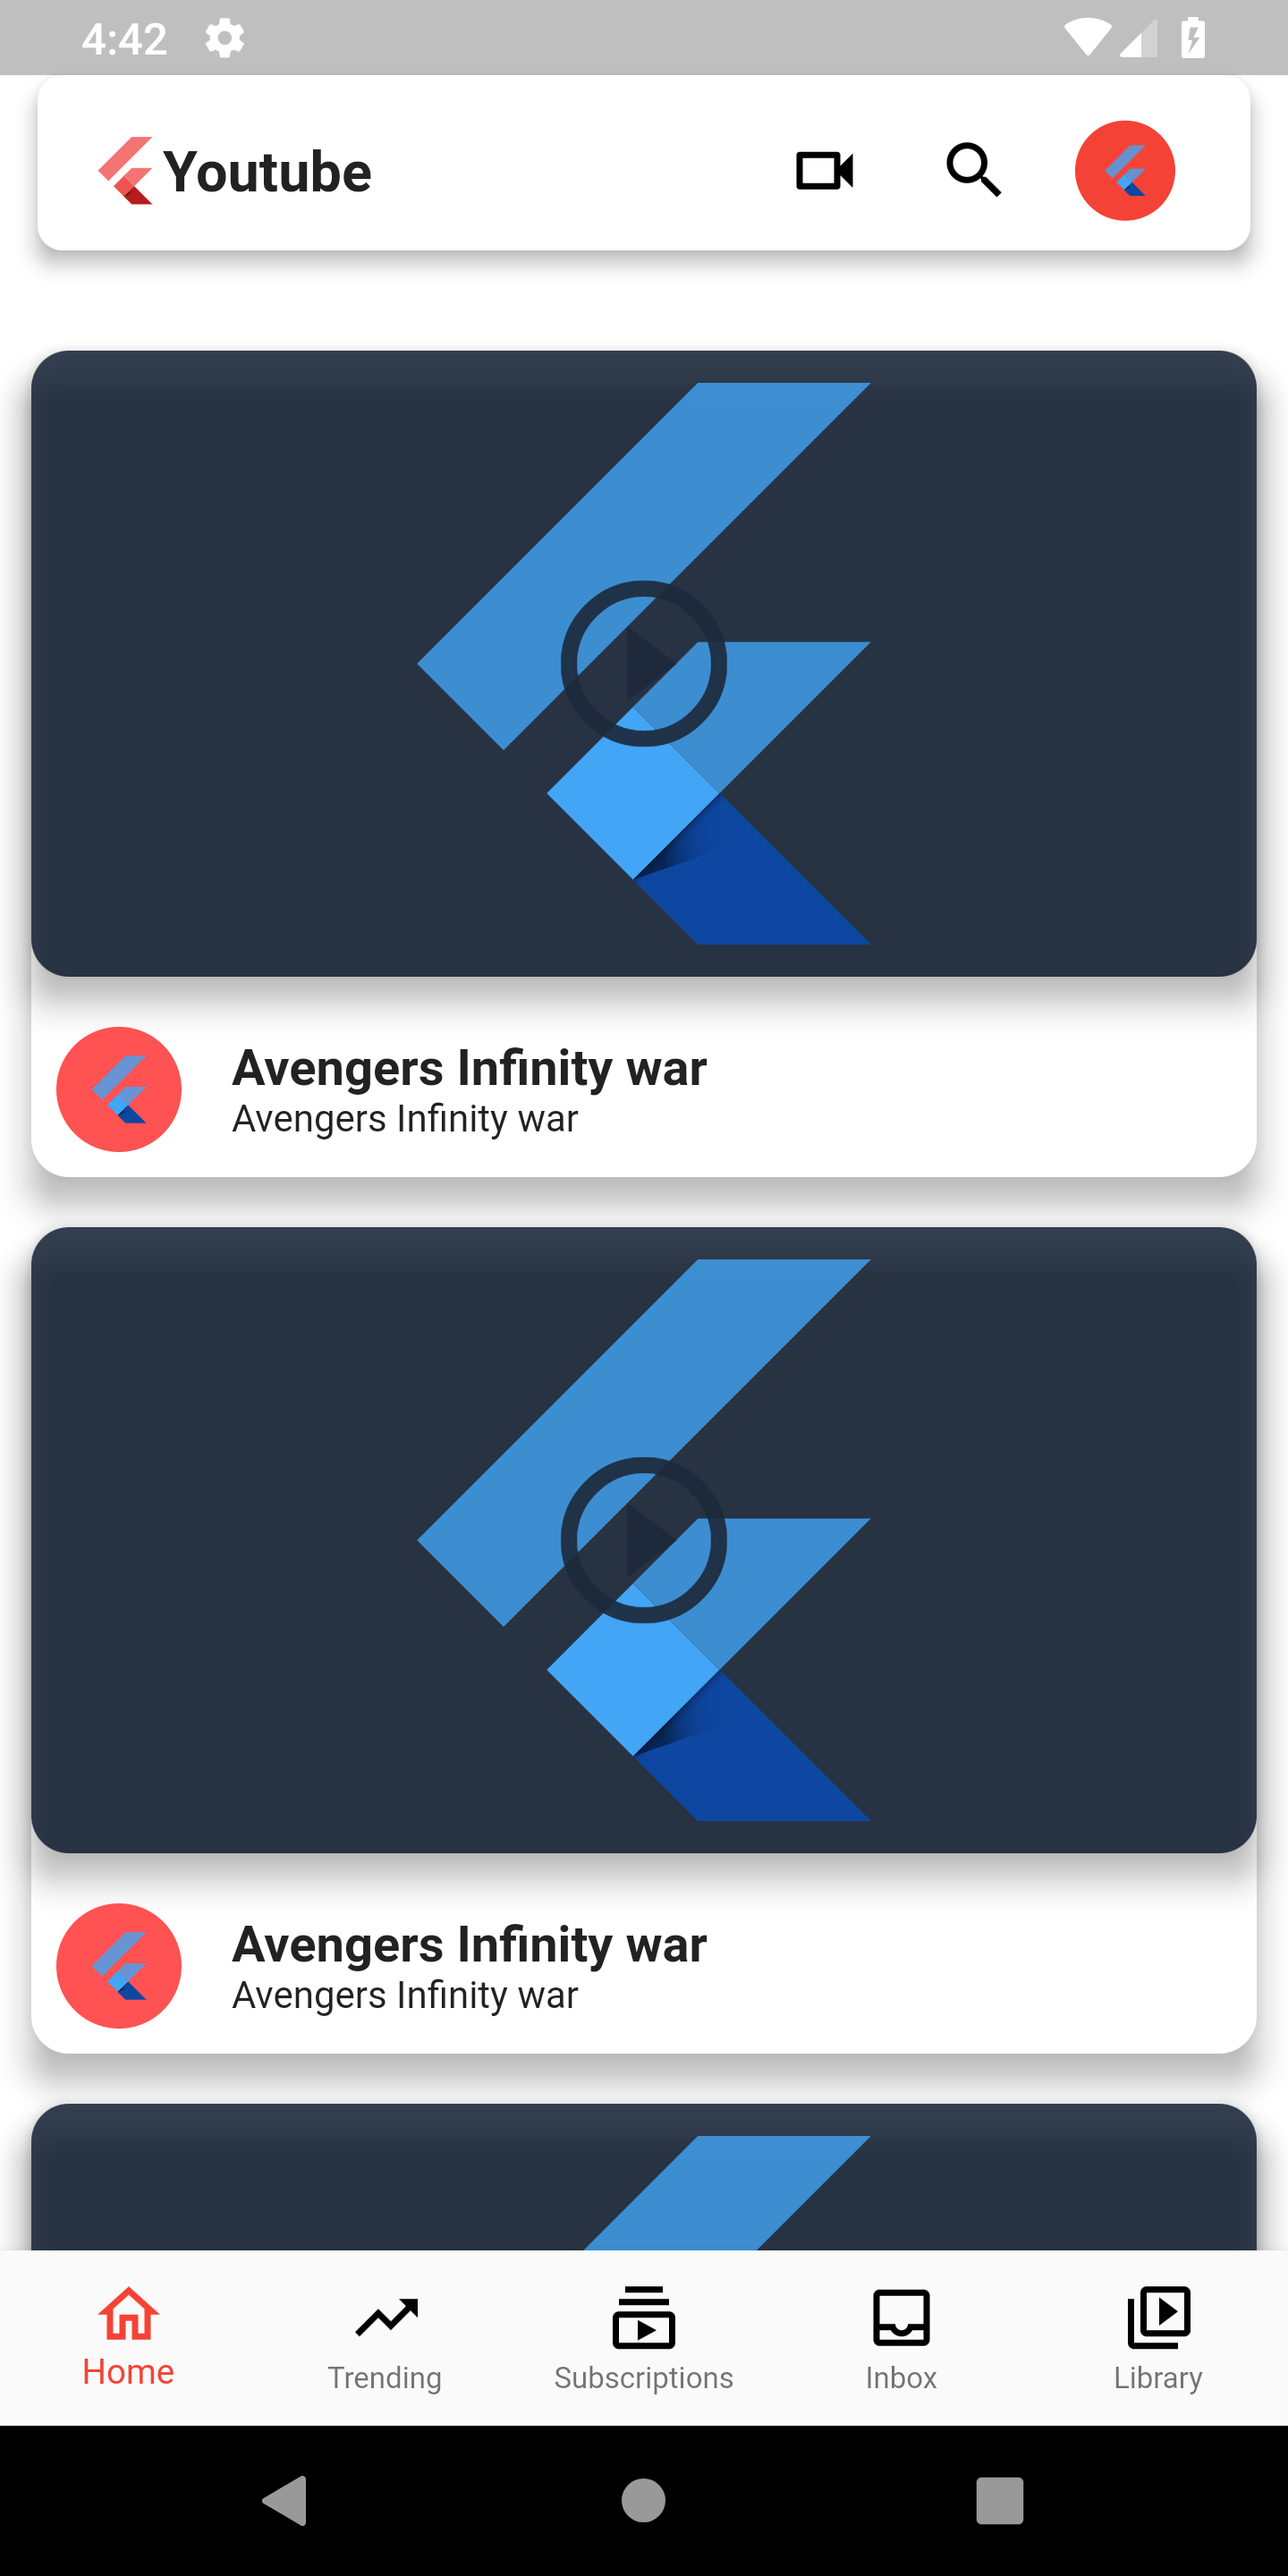
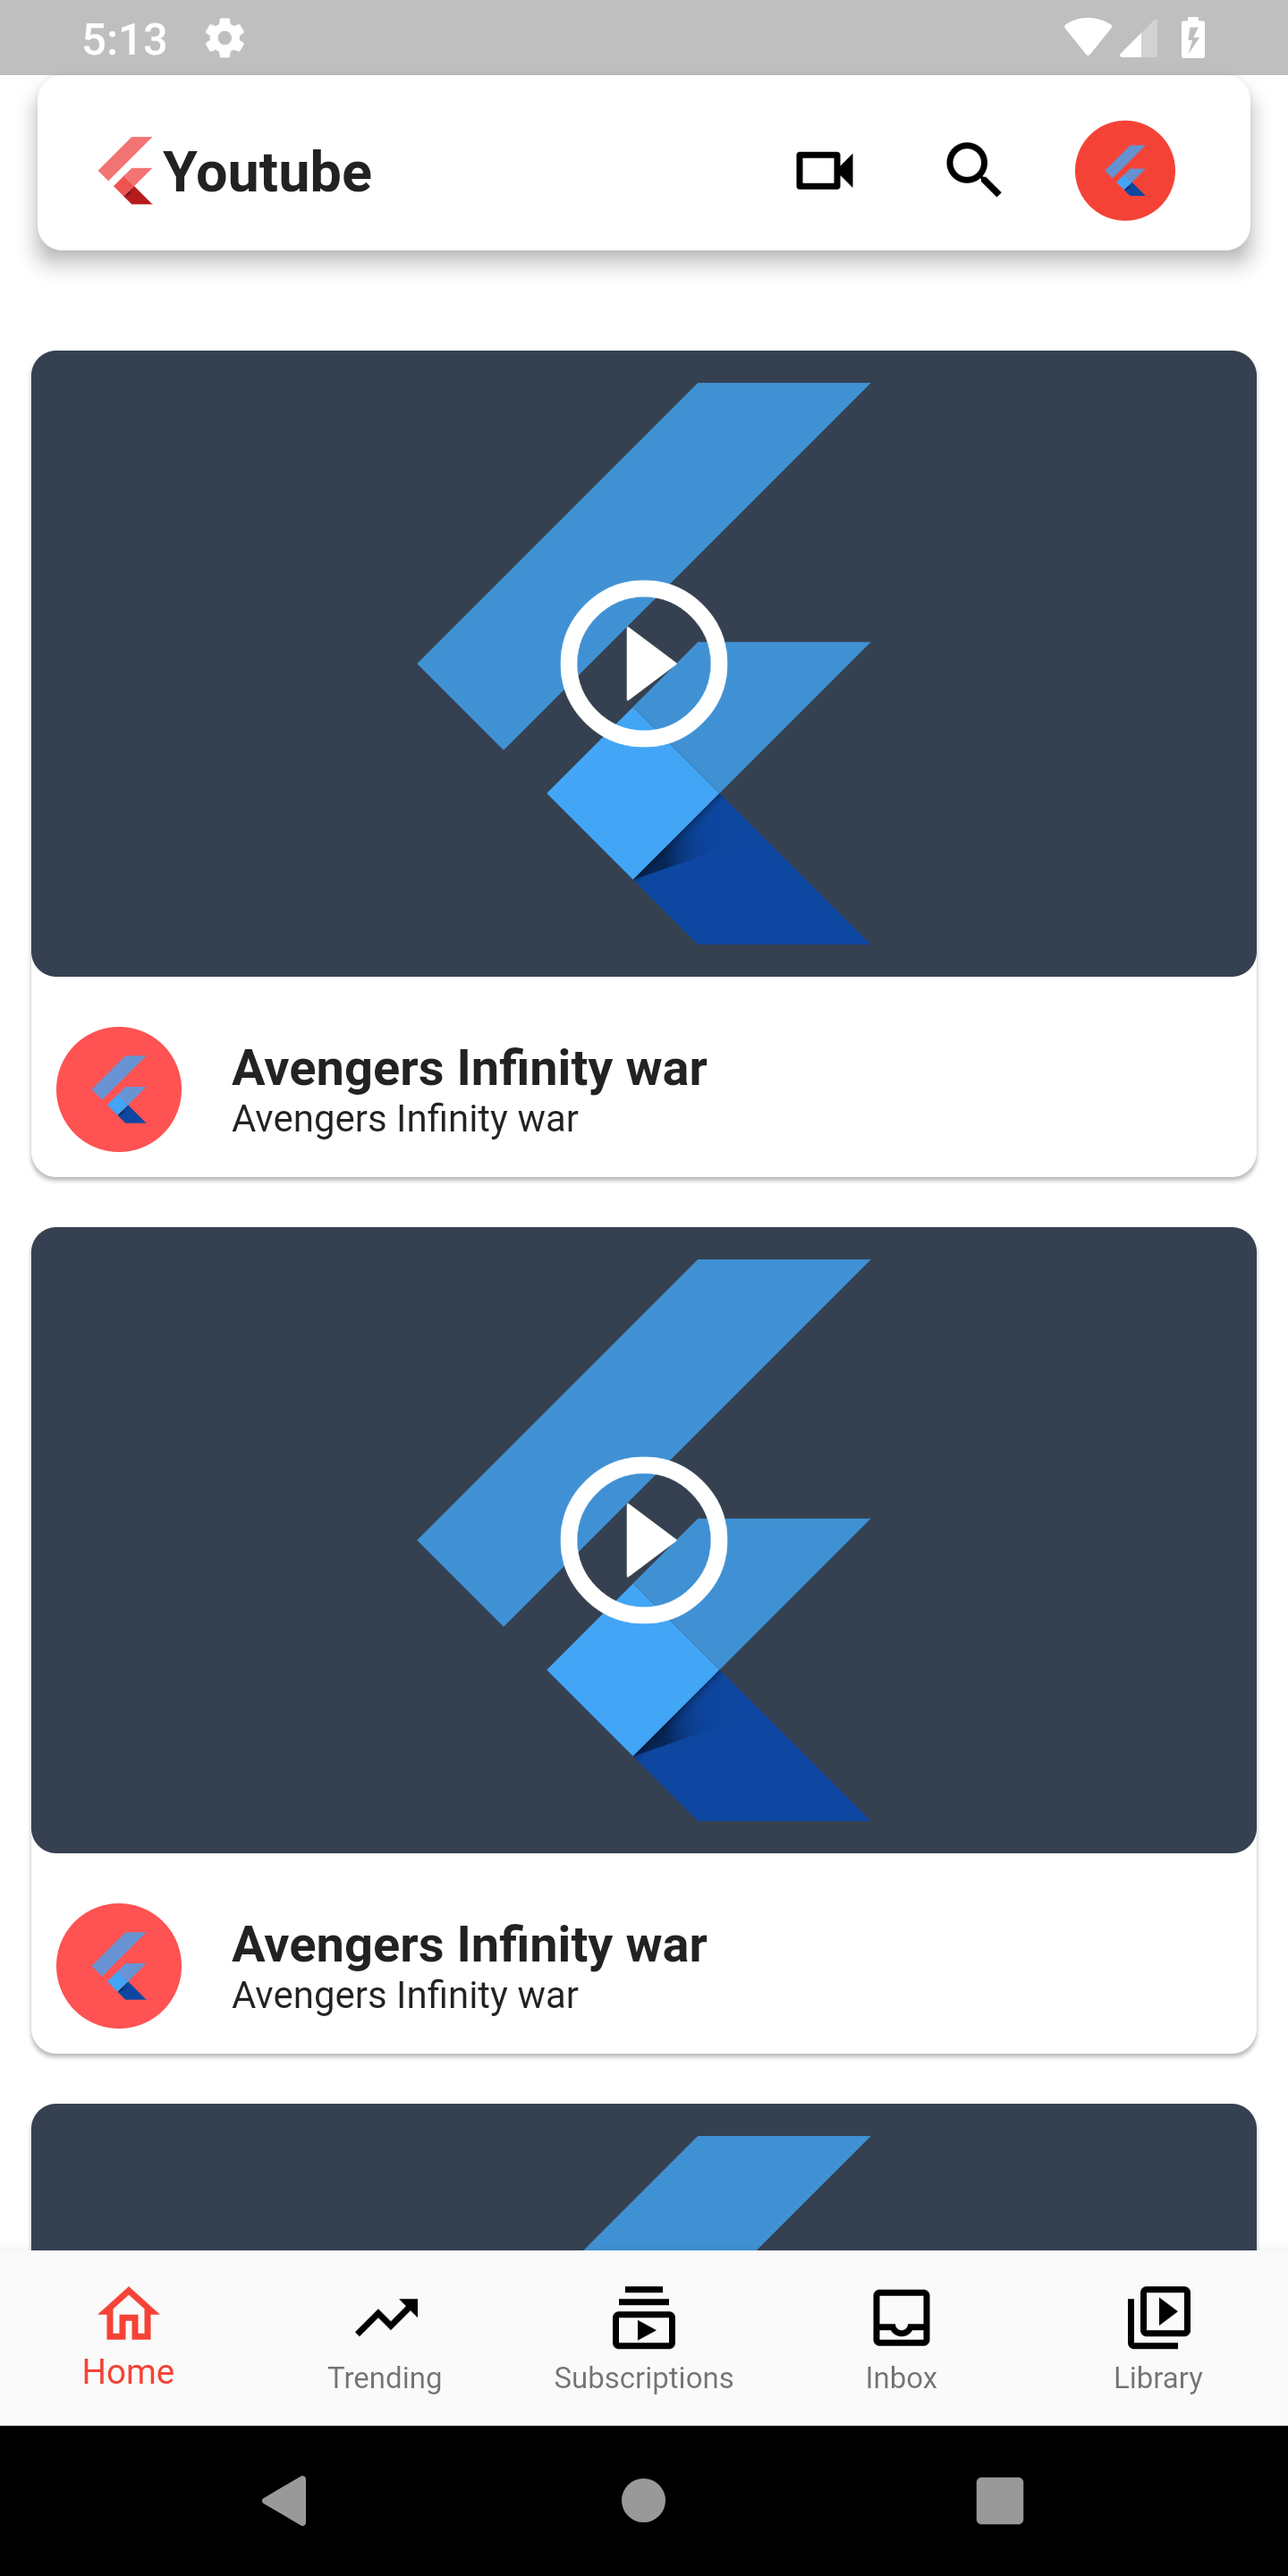
UI polishing

diff --git a/lib/ui/VideoItem.dart b/lib/ui/VideoItem.dart
@@ -25,9 +25,8 @@ class VideoItem extends StatelessWidget {
         margin: EdgeInsets.symmetric(horizontal: 10, vertical: 8),
         child: Card(
           margin: EdgeInsets.zero,
-          elevation: 8,
           shape: RoundedRectangleBorder(
-            borderRadius: BorderRadius.circular(12),
+            borderRadius: BorderRadius.circular(8),
           ),
           child: Column(
             crossAxisAlignment: CrossAxisAlignment.stretch,
@@ -37,21 +36,20 @@ class VideoItem extends StatelessWidget {
                 tag: index.toString(),
                 child: Stack(
                   children: <Widget>[
-                    Card(
-                      shape: RoundedRectangleBorder(
-                        borderRadius: BorderRadius.circular(12),
+                    ClipRRect(
+                      borderRadius: BorderRadius.circular(8),
+                      child: Container(
+                        color: Color.fromRGBO(2, 18, 37, 0.8),
+                        child: FlutterLogo(
+                          size: 200,
+                        ),
+                        margin: EdgeInsets.zero,
                       ),
-                      color: Color.fromRGBO(2, 18, 37, 0.8),
-                      child: FlutterLogo(
-                        size: 200,
-                      ),
-                      elevation: 8,
-                      margin: EdgeInsets.zero,
                     ),
                     Icon(
                       Icons.play_circle_outline,
                       size: 64,
-                      color: Color.fromRGBO(27, 41, 58, 24),
+                      color: Colors.white,
                     )
                   ],
                   alignment: Alignment(0, 0),
